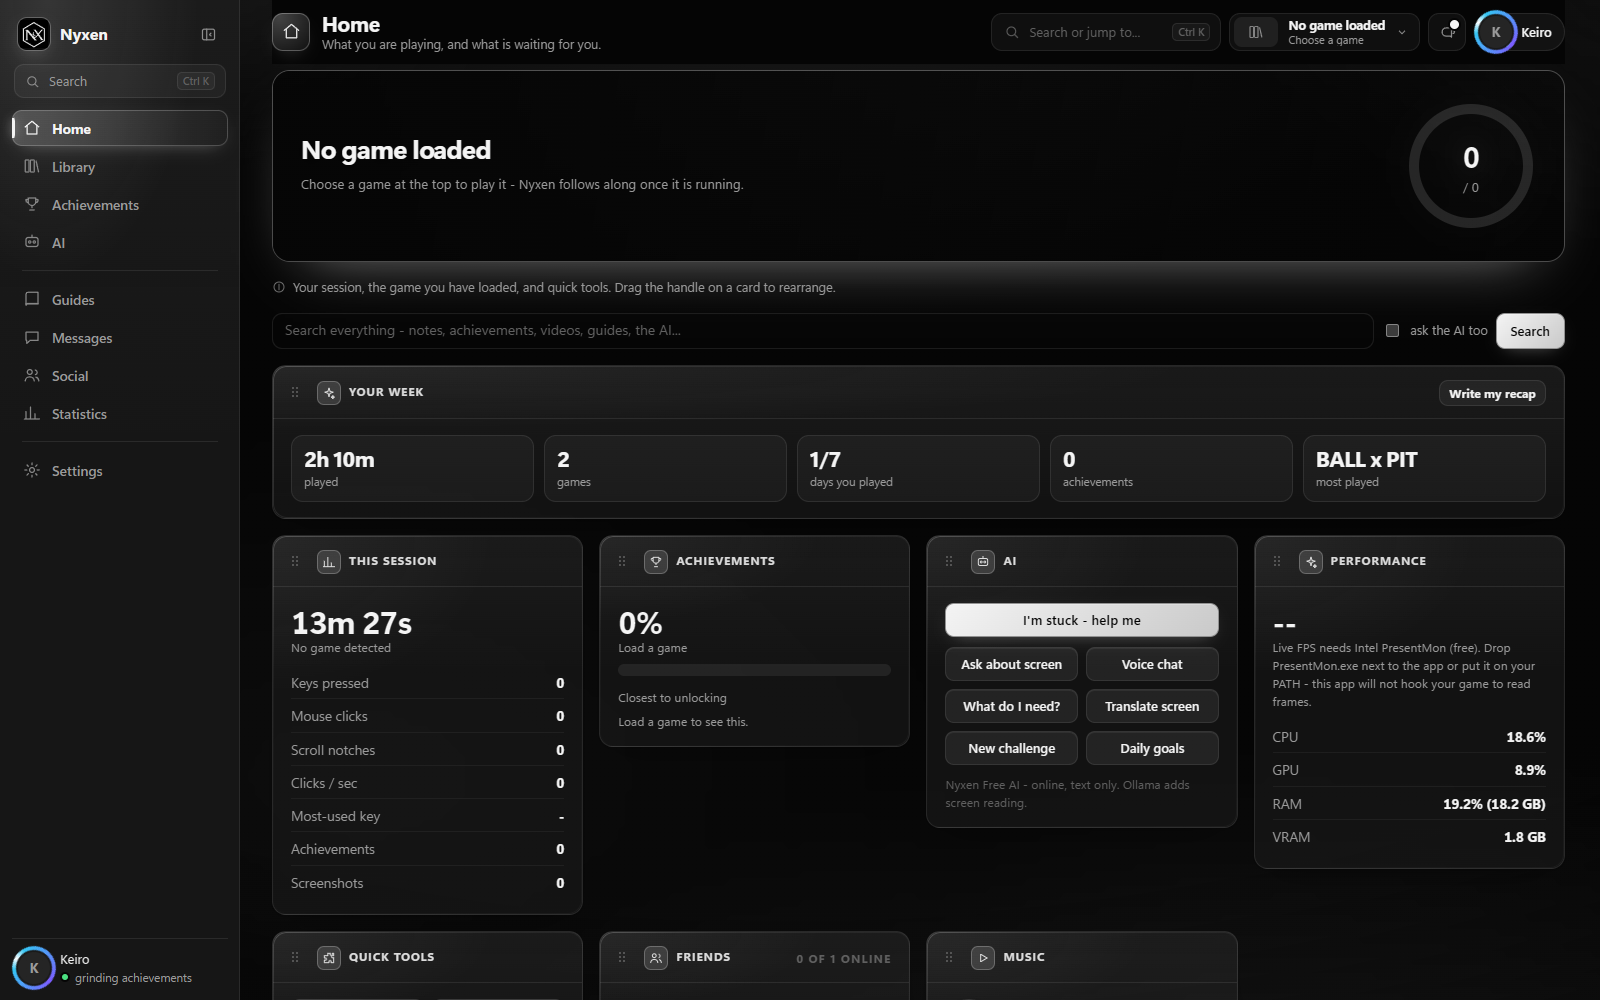
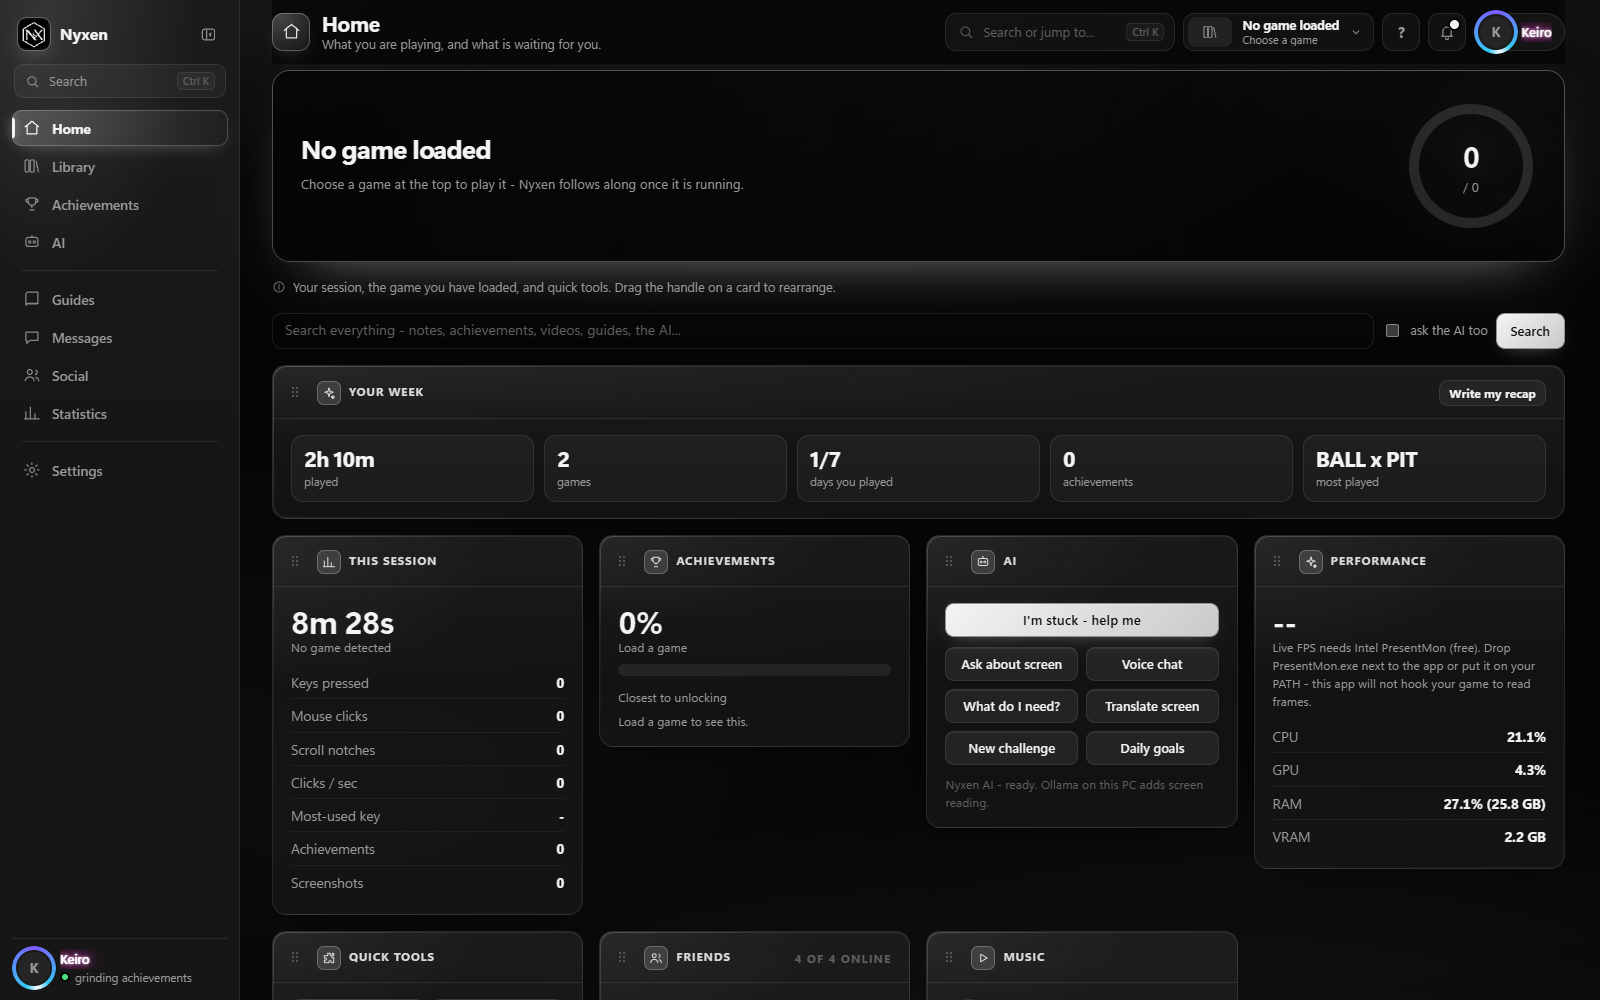
Publish the Nyxen site
Static build for GitHub Pages: the size and SHA-256 of the
installer are measured at build time rather than typed, the
screenshot gallery is generated from the shots folder, and the
download points at the Release rather than a file in the repo.

diff --git a/index.html b/index.html
@@ -439,6 +439,60 @@
   .plan .terms i{font-style:normal;font-size:11px;opacity:.7}
   body.light .plan .terms a{border-color:rgba(0,0,0,.14)}
   .plan .trialnote{font-size:12px;opacity:.7;line-height:1.5;margin:10px 0 0}
+
+  /* ---- 1.10: the app in the hero, floating ------------------------- */
+  .stage{position:relative;margin:54px auto 10px;max-width:1000px;height:clamp(300px,52vw,560px);
+    perspective:1600px;animation:fadeUp 1s var(--ease) .9s both}
+  .stage .win{position:absolute;border-radius:14px;overflow:hidden;border:1px solid var(--line2);
+    background:var(--bg2);box-shadow:0 40px 90px -30px rgba(0,0,0,.85),0 0 0 1px rgba(var(--dot),.04);
+    transition:transform .6s var(--ease)}
+  .stage .win img{display:block;width:100%;height:auto}
+  .stage .win .bar{height:26px;display:flex;align-items:center;gap:6px;padding:0 11px;
+    background:color-mix(in srgb,var(--bg2) 85%,#fff 3%);border-bottom:1px solid var(--line)}
+  .stage .win .bar i{width:9px;height:9px;border-radius:50%;background:var(--line2)}
+  .stage .win .bar b{margin-left:8px;font-size:11px;font-weight:600;color:var(--dim);letter-spacing:.02em}
+  .stage .w1{left:14%;right:14%;top:0;z-index:3;
+    transform:rotateX(calc(8deg + var(--py) * -3deg)) rotateY(calc(var(--px) * 4deg)) translateZ(0)}
+  .stage .w2{left:0;width:40%;top:34%;z-index:2;
+    transform:rotateY(18deg) rotateX(4deg) translate3d(calc(var(--px) * -12px),0,-120px)}
+  .stage .w3{right:0;width:40%;top:30%;z-index:2;
+    transform:rotateY(-18deg) rotateX(4deg) translate3d(calc(var(--px) * -12px),0,-120px)}
+  .stage::after{content:"";position:absolute;left:10%;right:10%;bottom:-30px;height:60px;z-index:0;
+    background:radial-gradient(closest-side,rgba(var(--dot),.12),transparent);filter:blur(10px)}
+  @media(max-width:760px){.stage .w2,.stage .w3{display:none}.stage .w1{left:0;right:0}}
+
+  .news{display:flex;gap:10px;flex-wrap:wrap;justify-content:center;margin:26px 0 0}
+  .news a{display:inline-flex;align-items:center;gap:8px;padding:8px 14px;border-radius:999px;
+    border:1px solid var(--line);background:var(--panel);text-decoration:none;font-size:13.5px;color:var(--dim);
+    transition:border-color .2s,color .2s,transform .2s var(--ease)}
+  .news a:hover{border-color:var(--line2);color:var(--fg);transform:translateY(-2px)}
+  .news a b{font-size:9.5px;letter-spacing:.14em;text-transform:uppercase;padding:2px 7px;border-radius:6px;
+    background:var(--ink);color:var(--ink-fg)}
+
+  /* ---- spotlights: one big picture and the story beside it --------- */
+  .spot{display:grid;grid-template-columns:minmax(0,1.35fr) minmax(0,1fr);gap:40px;align-items:center;
+    padding:40px 0;border-top:1px solid var(--line)}
+  .spot:first-of-type{border-top:0}
+  .spot.flip{grid-template-columns:minmax(0,1fr) minmax(0,1.35fr)}
+  .spot.flip .shotbox{order:2}
+  .shotbox{position:relative;border-radius:16px;overflow:hidden;border:1px solid var(--line2);
+    box-shadow:0 36px 80px -34px rgba(0,0,0,.9);background:var(--bg2);cursor:zoom-in;
+    transition:transform .5s var(--ease),box-shadow .5s}
+  .shotbox:hover{transform:translateY(-4px) scale(1.01);box-shadow:0 44px 90px -30px rgba(0,0,0,.95)}
+  .shotbox img{display:block;width:100%;height:auto}
+  .shotbox .pip{position:absolute;right:14px;bottom:14px;width:34%;border-radius:10px;overflow:hidden;
+    border:1px solid rgba(255,255,255,.35);box-shadow:0 20px 40px -14px rgba(0,0,0,.8)}
+  .shotbox .pip img{display:block;width:100%}
+  .spot h3{font-size:clamp(22px,3vw,30px);letter-spacing:-.03em;margin:8px 0 10px;line-height:1.1}
+  .spot p{color:var(--dim);margin:0 0 12px}
+  .spot ul{list-style:none;padding:0;margin:14px 0 0;display:grid;gap:8px}
+  .spot li{padding-left:22px;position:relative;font-size:14.5px}
+  .spot li::before{content:"";position:absolute;left:0;top:.55em;width:10px;height:10px;border-radius:3px;
+    border:1px solid var(--line2);background:var(--panel2)}
+  .spot .kick{display:inline-block;font-size:10.5px;letter-spacing:.14em;text-transform:uppercase;
+    padding:3px 10px;border-radius:999px;border:1px solid var(--line2);background:var(--panel2)}
+  .spot .kick.beta{background:var(--ink);color:var(--ink-fg);border-color:var(--ink)}
+  @media(max-width:860px){.spot,.spot.flip{grid-template-columns:1fr;gap:20px}.spot.flip .shotbox{order:0}}
 </style>
 <noscript><style>
   /* The reveals are driven by script: .rise gets .in from an observer, and
@@ -468,6 +522,7 @@
       <span class="bname">Nyxen</span>
     </a>
     <nav>
+      <a href="#new">New</a>
       <a href="#look">Screenshots</a>
       <a href="#features">Everything it does</a>
       <a href="#start">Getting started</a>
@@ -493,15 +548,27 @@
     <div class="bigmark"><img src="logo.svg" alt="Nyxen" width="112" height="112"></div>
     <h1><span class="shine" data-split>One place for your games.</span></h1>
     <p class="sub">Mods from four sites at once. Minecraft with whatever launcher
-      you already have. Retro achievements. Your friends. One Windows app that
-      needs no account to be useful.</p>
+      you already have - now in 3D blocks. Retro achievements. Your friends, and a 3D
+      Space to hang out in. One Windows app that needs no account to be useful.</p>
     <div class="cta">
-      <a class="btn magnet" href="https://github.com/Kerioxsx/nyxen/releases/download/v1.9.1/NyxenSetup.exe"><span>Download for Windows</span>
+      <a class="btn magnet" href="https://github.com/Kerioxsx/nyxen/releases/download/v1.10.0/NyxenSetup.exe"><span>Download for Windows</span>
         <span class="arw" aria-hidden="true">&rarr;</span></a>
       <a class="btn ghost magnet" href="#look"><span>See it first</span></a>
     </div>
-    <p class="meta">Version 1.9.1 &middot; 29.5 MB &middot; Windows 10 and 11
+    <p class="meta">Version 1.10.0 &middot; 40.6 MB &middot; Windows 10 and 11
       &middot; no administrator rights needed</p>
+    <div class="news">
+      <a href="#s-map"><b>New</b>Minecraft in 3D blocks</a>
+      <a href="#s-space"><b>Beta</b>Nyxen Space - a 3D room for friends</a>
+      <a href="#s-voice"><b>New</b>A voice that sounds human</a>
+      <a href="#s-social"><b>New</b>Songs with their covers, instantly</a>
+    </div>
+  </div>
+
+  <div class="stage" aria-hidden="true">
+    <div class="win w2"><div class="bar"><i></i><i></i><i></i><b>Minecraft live map</b></div><img src="shots/livemap.png" alt="" loading="lazy"></div>
+    <div class="win w3"><div class="bar"><i></i><i></i><i></i><b>Social</b></div><img src="shots/socialhome.png" alt="" loading="lazy"></div>
+    <div class="win w1"><div class="bar"><i></i><i></i><i></i><b>Nyxen Space</b></div><img src="shots/space.png" alt="Nyxen Space: chrome friends on a couch watching a shared screen"></div>
   </div>
 
   <div class="belt" aria-label="What it works with">
@@ -519,6 +586,87 @@
       <div class="l">themes, 16 animated</div></div>
   </div>
 
+  <section id="new">
+    <p class="eyebrow rise">New in 1.10.0</p>
+    <h2 class="rise">The biggest update yet</h2>
+    <p class="lead rise">Everything below is in the build on this page - click a picture to see it full size.</p>
+
+    <div class="spot rise" id="s-map">
+      <div class="shotbox" data-full="shots/livemap.png"><img src="shots/livemap.png" alt="A Minecraft world drawn in 3D blocks inside Nyxen" loading="lazy"></div>
+      <div>
+        <span class="kick">Minecraft</span>
+        <h3>Your world, in real 3D blocks</h3>
+        <p>Press <b>3D</b> on the live map and your world turns into cubes - read straight from the
+          save on your PC, with the trees, water, snow and the houses you built. Your friends walk
+          around on it and your waypoints glow as beacons.</p>
+        <ul>
+          <li><b>Textures</b> uses your own game's block pictures, <b>Clean</b> draws it like a model</li>
+          <li>Angled, from the top or close to the ground - drag to turn, scroll to zoom</li>
+          <li>Full screen with your hotbar, health, the call and the time of day</li>
+          <li><b>Explore a world in 3D</b> with the game closed - Overworld, Nether and End</li>
+        </ul>
+      </div>
+    </div>
+
+    <div class="spot flip rise" id="s-space">
+      <div class="shotbox" data-full="shots/space.png"><img src="shots/space.png" alt="Chrome figures sitting on a couch in a white 3D world, watching a shared screen on a TV" loading="lazy">
+        <div class="pip"><img src="shots/space_build.png" alt="Building with pastel blocks in Nyxen Space" loading="lazy"></div></div>
+      <div>
+        <span class="kick beta">Beta</span>
+        <h3>Nyxen Space: hang out in 3D</h3>
+        <p>A bright white world with a grid floor and a low sun, where you and your friends walk around
+          as puffy chrome figures with floating heads - in the chrome colour you pick.</p>
+        <ul>
+          <li>Talk: it is a real voice call, and people sound quieter the further away they stand</li>
+          <li>Sit on the couch and watch whoever shares their screen on the TV</li>
+          <li>Build together, Minecraft-style: blocks in any colour, glass, lights and furniture</li>
+          <li>What you build stays, chat bubbles over heads, waves and dances</li>
+        </ul>
+      </div>
+    </div>
+
+    <div class="spot rise" id="s-voice">
+      <div class="shotbox" data-full="shots/voice.png"><img src="shots/voice.png" alt="The natural voice download in Nyxen's settings" loading="lazy"></div>
+      <div>
+        <span class="kick">Assistant</span>
+        <h3>A voice that sounds like a person</h3>
+        <p>One click in Settings and the assistant stops sounding like a robot. The natural voice runs
+          entirely on your PC - no key, no account, nothing you say is sent anywhere.</p>
+        <ul>
+          <li>Ten voices: Heart, Bella, Nicole, Michael, Fenrir, Puck, Emma, George - and Spanish</li>
+          <li>Starts talking while it is still thinking of the next sentence</li>
+          <li>One download, about 120 MB, and it stays out of your game's way</li>
+        </ul>
+      </div>
+    </div>
+
+    <div class="spot flip rise" id="s-social">
+      <div class="shotbox" data-full="shots/socialhome.png"><img src="shots/socialhome.png" alt="Nyxen's Social home with friends online and what they are playing and listening to" loading="lazy"></div>
+      <div>
+        <span class="kick">Friends</span>
+        <h3>Social, with a real home</h3>
+        <p>See who is online, what they are playing and what they are listening to - with the song's
+          cover, straight from Spotify or Apple Music, the moment it changes.</p>
+        <ul>
+          <li>Your game and your song at the top, the feed below</li>
+          <li>Live rooms to jump into, and people you may know</li>
+          <li>Message or call anyone from the list in one click</li>
+        </ul>
+      </div>
+    </div>
+
+    <div class="spot rise" id="s-layouts">
+      <div class="shotbox" data-full="shots/layouts.png"><img src="shots/layouts.png" alt="Nyxen's Hub layout with friends and the song playing in a column on the right" loading="lazy"></div>
+      <div>
+        <span class="kick">Look</span>
+        <h3>Ten layouts, not just colours</h3>
+        <p>Interface styles move the navigation itself: a sidebar, a slim rail, a top bar, floating
+          glass, a Mac-style dock, Zen, Couch for the TV - or Hub, with your friends and your music in a
+          column beside everything.</p>
+      </div>
+    </div>
+  </section>
+
   <section id="features">
     <p class="eyebrow rise">What is in it</p>
     <h2 class="rise">Everything it does</h2>
@@ -527,6 +675,25 @@
       mock-up.</p>
 
     <div class="grid" id="cards">
+      <div class="card rise">
+        <span class="tag">New</span>
+        <h3>Nyxen Space (beta)</h3>
+        <p>A 3D room for friends: chrome figures, voice that fades with distance, a couch, a TV that
+          shows whoever shares their screen, and building together.</p>
+      </div>
+
+      <div class="card rise">
+        <span class="tag">New</span>
+        <h3>Minecraft in 3D blocks</h3>
+        <p>The live map as real cubes, from your world's save - with your friends, waypoints and the
+          time of day. Works with the game closed too.</p>
+      </div>
+
+      <div class="card rise">
+        <span class="tag">New</span>
+        <h3>A natural voice</h3>
+        <p>The assistant speaks like a person, on your PC, with no key. Ten voices to pick from.</p>
+      </div>
       <div class="card rise">
         <span class="tag">Mods</span>
         <h3>Four mod sites, one search box</h3>
@@ -705,7 +872,7 @@
           <li>The Nyxen AI assistant</li>
           <li>52 themes, your own accent colour and font</li>
         </ul>
-        <a class="btn ghost" href="https://github.com/Kerioxsx/nyxen/releases/download/v1.9.1/NyxenSetup.exe"><span>Download free</span></a>
+        <a class="btn ghost" href="https://github.com/Kerioxsx/nyxen/releases/download/v1.10.0/NyxenSetup.exe"><span>Download free</span></a>
       </div>
       <div class="card plan best">
         <div class="pn">Nyxen Eclipse</div>
@@ -772,11 +939,11 @@
     <p class="eyebrow rise">Download</p>
     <h2 class="rise">One file. Open it, click Install, and it launches.</h2>
     <div class="cta rise" style="justify-content:flex-start">
-      <a class="btn magnet" href="https://github.com/Kerioxsx/nyxen/releases/download/v1.9.1/NyxenSetup.exe"><span>NyxenSetup.exe &middot; 29.5 MB</span>
+      <a class="btn magnet" href="https://github.com/Kerioxsx/nyxen/releases/download/v1.10.0/NyxenSetup.exe"><span>NyxenSetup.exe &middot; 40.6 MB</span>
         <span class="arw" aria-hidden="true">&darr;</span></a>
       <a class="btn ghost magnet" href="sha256.txt"><span>Checksum</span></a>
     </div>
-    <p class="meta">SHA-256 <code>d1d5d7304cfe578b82d3ac1f164c149c4657415d8d7ead438427b7a9eed8b07b</code><br>
+    <p class="meta">SHA-256 <code>2ec69ac373b36f0b71ed348a45aef800371647f110d7905761b919fb27d04b2e</code><br>
       Check it with <code>certutil -hashfile NyxenSetup.exe SHA256</code> —
       built into Windows, nothing to install.</p>
     <div class="note rise" style="margin-top:22px">
@@ -790,9 +957,9 @@
   <footer>
     <span class="mark" style="width:26px;height:26px;border-radius:8px">
       <img src="logo.svg" alt="" width="26" height="26"></span>
-    <span>Nyxen 1.9.1 — made by Antonio</span>
+    <span>Nyxen 1.10.0 — made by Antonio</span>
     <a href="terms.html">Terms</a>
-    <a href="https://github.com/Kerioxsx/nyxen/releases/download/v1.9.1/NyxenSetup.exe">Download</a>
+    <a href="https://github.com/Kerioxsx/nyxen/releases/download/v1.10.0/NyxenSetup.exe">Download</a>
     <span class="right">Not affiliated with Valve, Mojang, Microsoft, Modrinth,
       Thunderstore, GameBanana, RetroAchievements or libretro.</span>
   </footer>
@@ -1211,6 +1378,15 @@ document.querySelectorAll("[data-checkout]").forEach(a => {
       strip.appendChild(b);
     });
     show(0);
+    // The spotlight pictures open the same full-size viewer, at that shot.
+    [].forEach.call(document.querySelectorAll(".shotbox[data-full]"), function(box){
+      box.addEventListener("click", function(){
+        var n = -1;
+        shots.forEach(function(s, k){ if(s.file === box.getAttribute("data-full")) n = k; });
+        if(n < 0) return;
+        show(n); openLb();
+      });
+    });
 
     // Looking at it, or reading the strip, stops it moving under you.
     stage.addEventListener("pointerenter", function(){ hold(true); });

diff --git a/terms.html b/terms.html
@@ -98,7 +98,7 @@
   </a>
   <nav>
     <a href="index.html">Home</a>
-    <a href="https://github.com/Kerioxsx/nyxen/releases/download/v1.9.1/NyxenSetup.exe">Download</a>
+    <a href="https://github.com/Kerioxsx/nyxen/releases/download/v1.10.0/NyxenSetup.exe">Download</a>
   </nav>
 </header>
 
@@ -314,7 +314,7 @@ position for a free project made by one person.</p>
 <footer>
   <span>Nyxen 1.6.1</span>
   <a href="index.html">Home</a>
-  <a href="https://github.com/Kerioxsx/nyxen/releases/download/v1.9.1/NyxenSetup.exe">Download</a>
+  <a href="https://github.com/Kerioxsx/nyxen/releases/download/v1.10.0/NyxenSetup.exe">Download</a>
   <a href="sha256.txt">Checksum</a>
 </footer>
 
